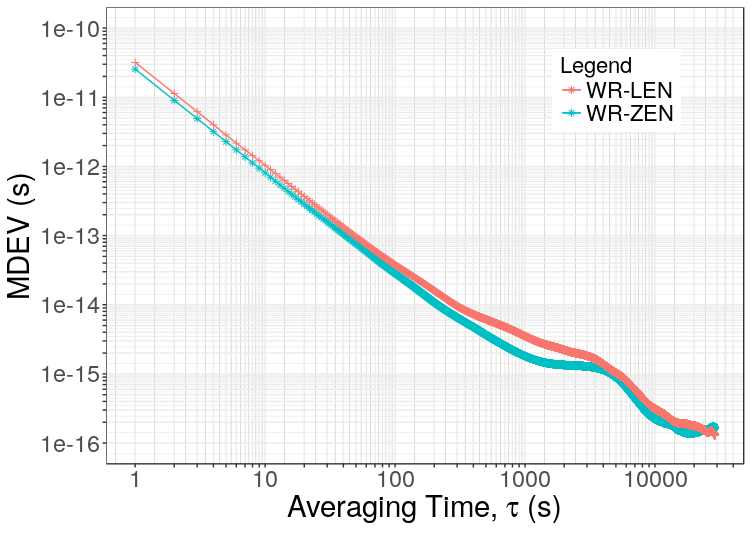
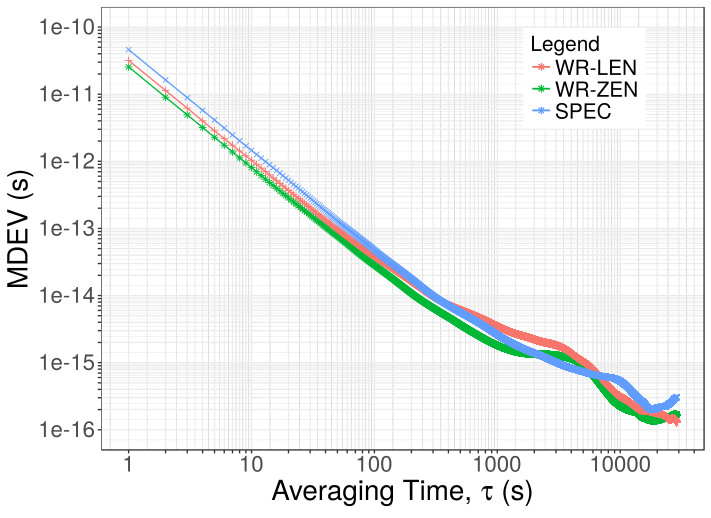
src/exp: Modificaciones en exprimento 1
- Añadidos resultados de la SPEC.
- Comentados los tipos de ruido dominantes.

diff --git a/paper_src/sec/experiments.tex b/paper_src/sec/experiments.tex
@@ -57,7 +57,7 @@ The PPS performance is evaluated for the three WR nodes analysed previously.
 Each node, was connected to the same WRS with a short fibre link (Figure 
 \ref{fig:prueba1pps}). Once the node was fully synchronized, we started to 
 measure the time interval between the PPS from the WRS and the PPS from the 
-slave node. Each measure lasts 24 hours under laboratory conditions.
+slave node. All measurements last 24 hours under laboratory conditions.
 
 \begin{figure}[H]
 	\centering
@@ -72,10 +72,7 @@ slave node. Each measure lasts 24 hours under laboratory conditions.
 Figure \ref{fig:tdev_exp1} corresponds to the Time Deviation (TDEV) statistic. 
 It express the stability of the phase difference between the WR master and the 
 WR slave versus the observation interval, $\tau$. For a $\tau=1$ we obtained a 
-TDEV value of 1.47e-11 for the WR-ZEN. This is 3.6e-12 s and W.Z s less than 
-WR-LEN and SPEC, respectively. The lowest value is 1.0e-12 s for the WR-ZEN. 
-Differences between the lowest values of WR-LEN and the SPEC board respect to 
-the WR-ZEN are: 6.2e-13 and BB respectively.
+TDEV value of 1.47e-11 for the WR-ZEN. This is 3.6e-12 s and 1.18e-11 s less than WR-LEN and SPEC, respectively. The lowest value is 1.0e-12 s for the WR-ZEN. Differences between the lowest values of WR-LEN and the SPEC board respect to the WR-ZEN are: 6.2e-13 and 4.6e-13 respectively.
 
 \begin{figure}
     \centering
@@ -88,9 +85,7 @@ the WR-ZEN are: 6.2e-13 and BB respectively.
 \end{figure}
 
 Modified Allan Deviation (MDEV) results are included in Figure 
-\ref{fig:mdev_exp1}. Noises levels for the WR-ZEN and WR-LEN are very close. 
-The SPEC board ... In the three cases the dominating noise is phase modulated 
-white noise.
+\ref{fig:mdev_exp1}. From the TDEV (\ref{fig:tdev_exp1}) and MDEV (\ref{fig:mdev_exp1}) results we observe that white PM noise dominates from $\tau=1$ to a few hundred os seconds averaging time (depending of the observed device). After that, the rest remains as flicker FM noise.
 
 \begin{figure}
     \centering
